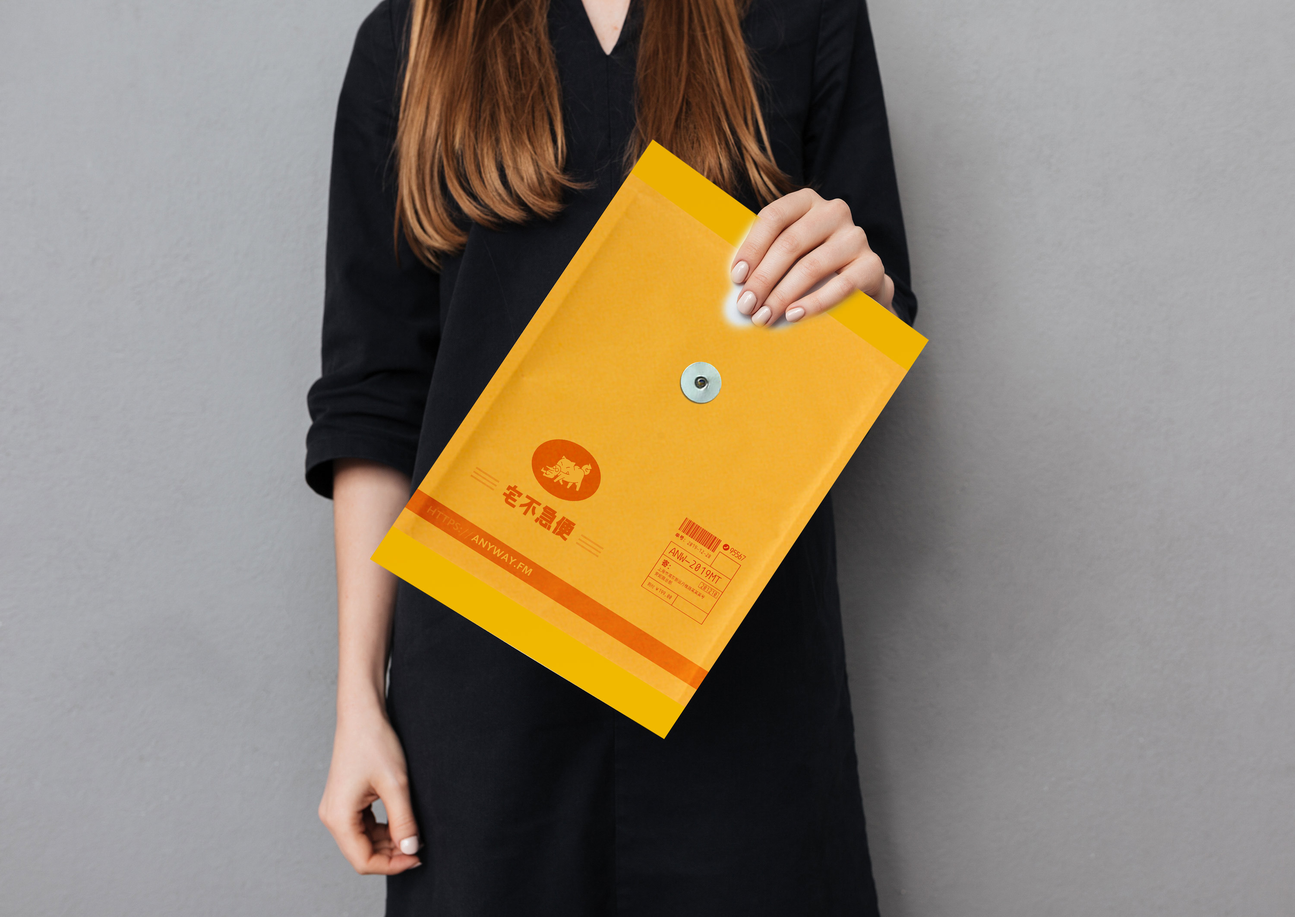
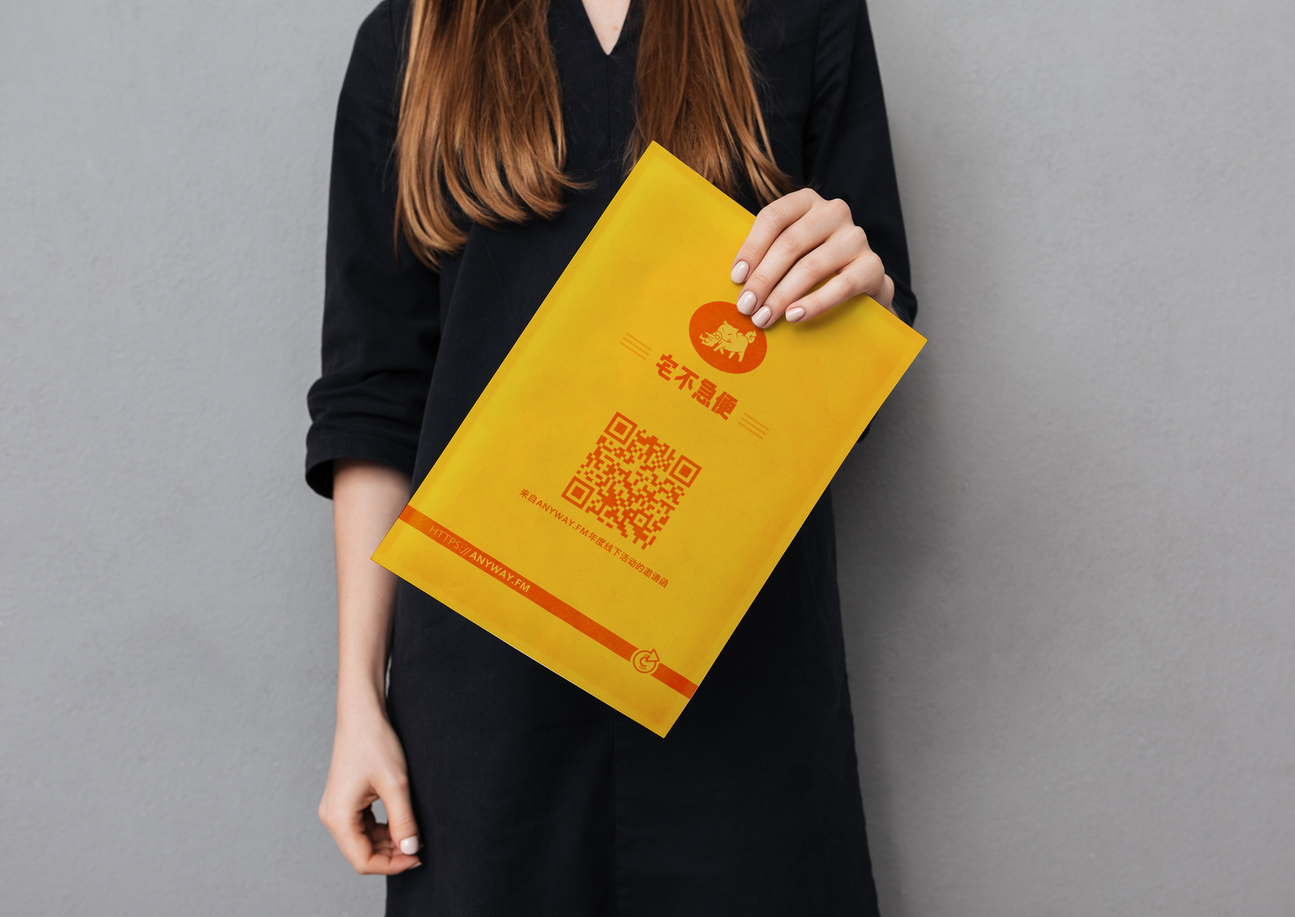
细节更新和图片优化

Changed region(s): [[0.279, 0.1554, 0.713, 0.8079], [0.403, 0.3418, 0.434, 0.404]]

diff --git a/assets/styles.css b/assets/styles.css
@@ -14,7 +14,7 @@ body{
 	text-rendering: optimizeLegibility;
 	-webkit-font-smoothing: antialiased;
 	-moz-osx-font-smoothing: grayscale;
-	font-family: 'Anyway Type', 'Myriad Pro', 'PingFang SC', 'Microsoft YaHei', sans-serif;
+	font-family: 'Myriad Pro', 'PingFang SC', 'Microsoft YaHei', sans-serif;
 	text-align: left;
 	color: #fff;
 	line-height: 1;
@@ -34,7 +34,7 @@ body{
 	position: fixed;
 	left: 0; top: 0;
 	width: 100vw; height: 100vh;
-	background: url(bg.jpg) no-repeat center center;
+	background: url('bg.jpg') no-repeat center center;
 	background-size: cover;
 	background-attachment: fixed;
 	background: #1f1e24;
@@ -54,12 +54,12 @@ body{
 	width: var(--packageWidth); height: calc(var(--packageWidth) * 1.4);
 }
 .package-1{
-	background: url(package-2.png) no-repeat center center;
+	background: url('package-2.png') no-repeat center center;
 	background-size: contain;
 }
 
 .package-2{
-	background: url(package.jpg) no-repeat center bottom;
+	background: url('package.jpg') no-repeat center bottom;
 	background-size: contain;
 }
 
@@ -82,7 +82,7 @@ body{
 	position: absolute;
 	left: 0; top: 0;
 	width: 100%; height: 100%;
-	background: url(envelope-top.png) no-repeat center top;
+	background: url('envelope-top.png') no-repeat center top;
 	transform-origin: top;
 	background-size: cover;
 	opacity: 1;
@@ -93,7 +93,7 @@ body{
 	backface-visibility: hidden;
 }
 #envelope-top-2{
-	background-image: url(envelope-top-2.png);
+	background-image: url('envelope-top-2.png');
 	box-shadow: 0 -2px 0 #38363e;
 }
 /* ~Letter */
@@ -101,7 +101,7 @@ body{
 	display: block;
 	width: calc(var(--envelopeWidth) * .4); height: calc(var(--envelopeWidth) * .78);
 	transition: all .3s ease-out;
-	background: #38363e url(letter.jpg) center center no-repeat;
+	background: #38363e url('letter.jpg') center center no-repeat;
 	background-size: contain;
 	position: absolute;
 	transform: rotateZ(90deg);
@@ -113,7 +113,7 @@ body{
 	position: absolute;
 	left: 0; top: 0;
 	width: 100%; height: 100%;
-	background: url(envelope-cover.png) bottom no-repeat;
+	background: url('envelope-cover.png') bottom no-repeat;
 	background-size: cover;
 	pointer-events: none;
 }
@@ -179,7 +179,7 @@ body{
 	opacity: 1;
 }
 .indicator > .inner{
-	background: url(indicator.png) no-repeat;
+	background: url('indicator.png') no-repeat;
 	background-size: contain;
 	width: 2rem; height: 2rem;
 	animation: shaking 1s ease-out infinite both;
@@ -202,7 +202,7 @@ body{
 .final{
 	width: calc(var(--envelopeWidth) * .4); height: calc(var(--envelopeWidth) * .78);
 	width: 100vw; height: 195vw;
-	background: #38363e url(letter.jpg) center center no-repeat;
+	background: #38363e url('letter.jpg') center center no-repeat;
 	background-size: contain;
 	display: block;
 }
@@ -283,7 +283,7 @@ body{
 	position: fixed;
 	left: 0; top: 0;
 	width: 100vw; height: 100vh;
-	background: #a8a8ac url(desktop.jpg) no-repeat center center;
+	background: #a8a8ac url('desktop.jpg') no-repeat center center;
 	background-size: cover;
 }
 .footer{
@@ -292,7 +292,28 @@ body{
 	padding: 3em 1em 1em;
 	width: 100vw;
 	text-align: center;
-	font-weight: 700;
+	font-weight: 400;
 	color: rgba(255,255,255,.7);
-	background: linear-gradient(0deg, rgba(0,0,0,.3) 0%, rgba(0,0,0,0) 100%);
+	font-size: 14px;
+	line-height: 1.56;
+	background: linear-gradient(0deg, rgba(0,0,0,.5) 0%, rgba(0,0,0,0) 100%);
+	font-family: 'Anyway Type', 'Myriad Pro', 'PingFang SC', 'Microsoft YaHei', sans-serif;
+
+}
+.footer a{
+	font-weight: 700;
+	color: #fff;
+	text-decoration: none;
+	border-bottom: 1px dotted rgba(255,255,255,.5);
+}
+.footer a:hover{
+	background:rgba(255,255,255,.2);
+}
+@font-face{
+	font-family: 'Anyway Type';
+	src: url("https://s.anw.red/font/calluna-sans-regular.woff2") format('woff2'),
+		url("https://s.anw.red/font/calluna-sans-regular.woff") format('woff');
+	font-weight: 400;
+	font-style: normal;
+	font-display: fallback;
 }

diff --git a/index.html b/index.html
@@ -16,13 +16,13 @@
 	<meta property="og:type" content="website">
 	<meta property="og:title" content="安妮赏 · 2019 年度颁奖盛典">
 	<meta property="og:description" content="设计播客 Anyway.FM 的上海站线下活动">
-	<meta property="og:image" content="https://s.anw.red/2019-guangdong/preview.jpg">
+	<meta property="og:image" content="assets/desktop.jpg">
 
 	<meta name="twitter:card" content="summary" />
 	<meta name="twitter:description" content="设计播客 Anyway.FM 的上海站线下活动" />
 	<meta name="twitter:title" content="安妮赏 · 2019 年度颁奖盛典" />
 	<meta name="twitter:site" content="@anyway__fm" />
-	<meta name="twitter:image" content="https://s.anw.red/2019-guangdong/preview.jpg" />
+	<meta name="twitter:image" content="assets/desktop.jpg" />
 
 	<script src="assets/anime.min.js"></script>
 
@@ -83,7 +83,7 @@
 	</div>
 
 	<div id="desktop">
-		<div class="footer">这次 JJ 比较偷懒，没有适配桌面端，请用手机扫码~</div>
+		<div class="footer">这次 JJ 比较偷懒，没有适配桌面端，请用手机扫码~<br>Anyway.Member 会员朋友们请直接登录<a href="https://anyway.fm/member/" target="_blank">会员中心</a>报名~</br></div>
 	</div>
 
 

diff --git a/gulpfile.js b/gulpfile.js
@@ -6,7 +6,7 @@ var htmlReplace = [
 ];
 
 var cssReplace = [
-	[ 'url(', 'url(https://s.anw.red/2019-shanghai/' ]
+	[ 'url(\'', 'url(\'https://s.anw.red/2019-shanghai/' ]
 	// [ '\'images/', '\'https://s.anw.red/anyway.fm/' ],
 ];
 
